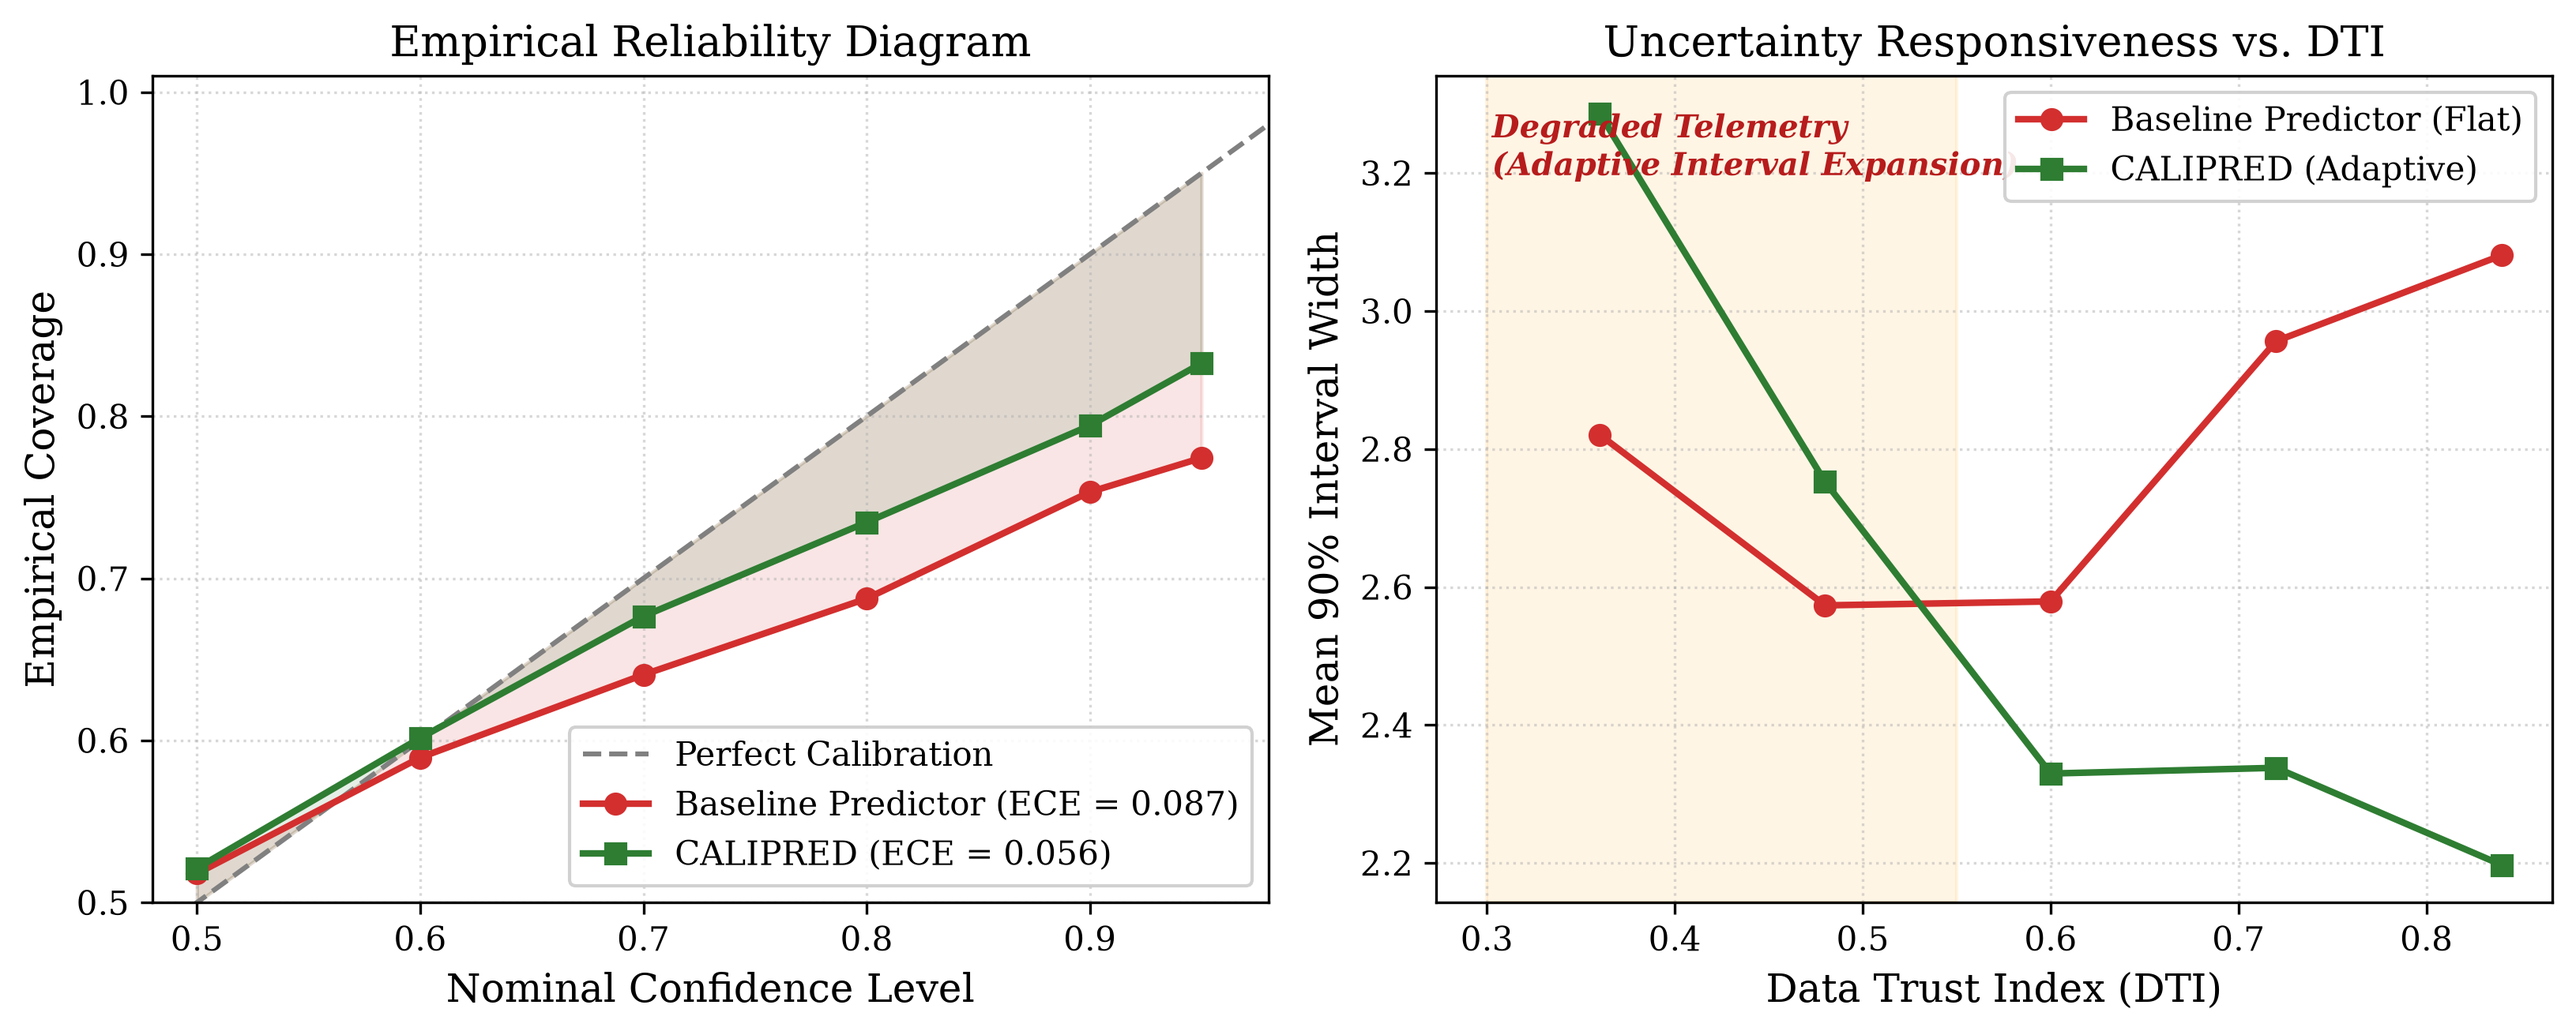
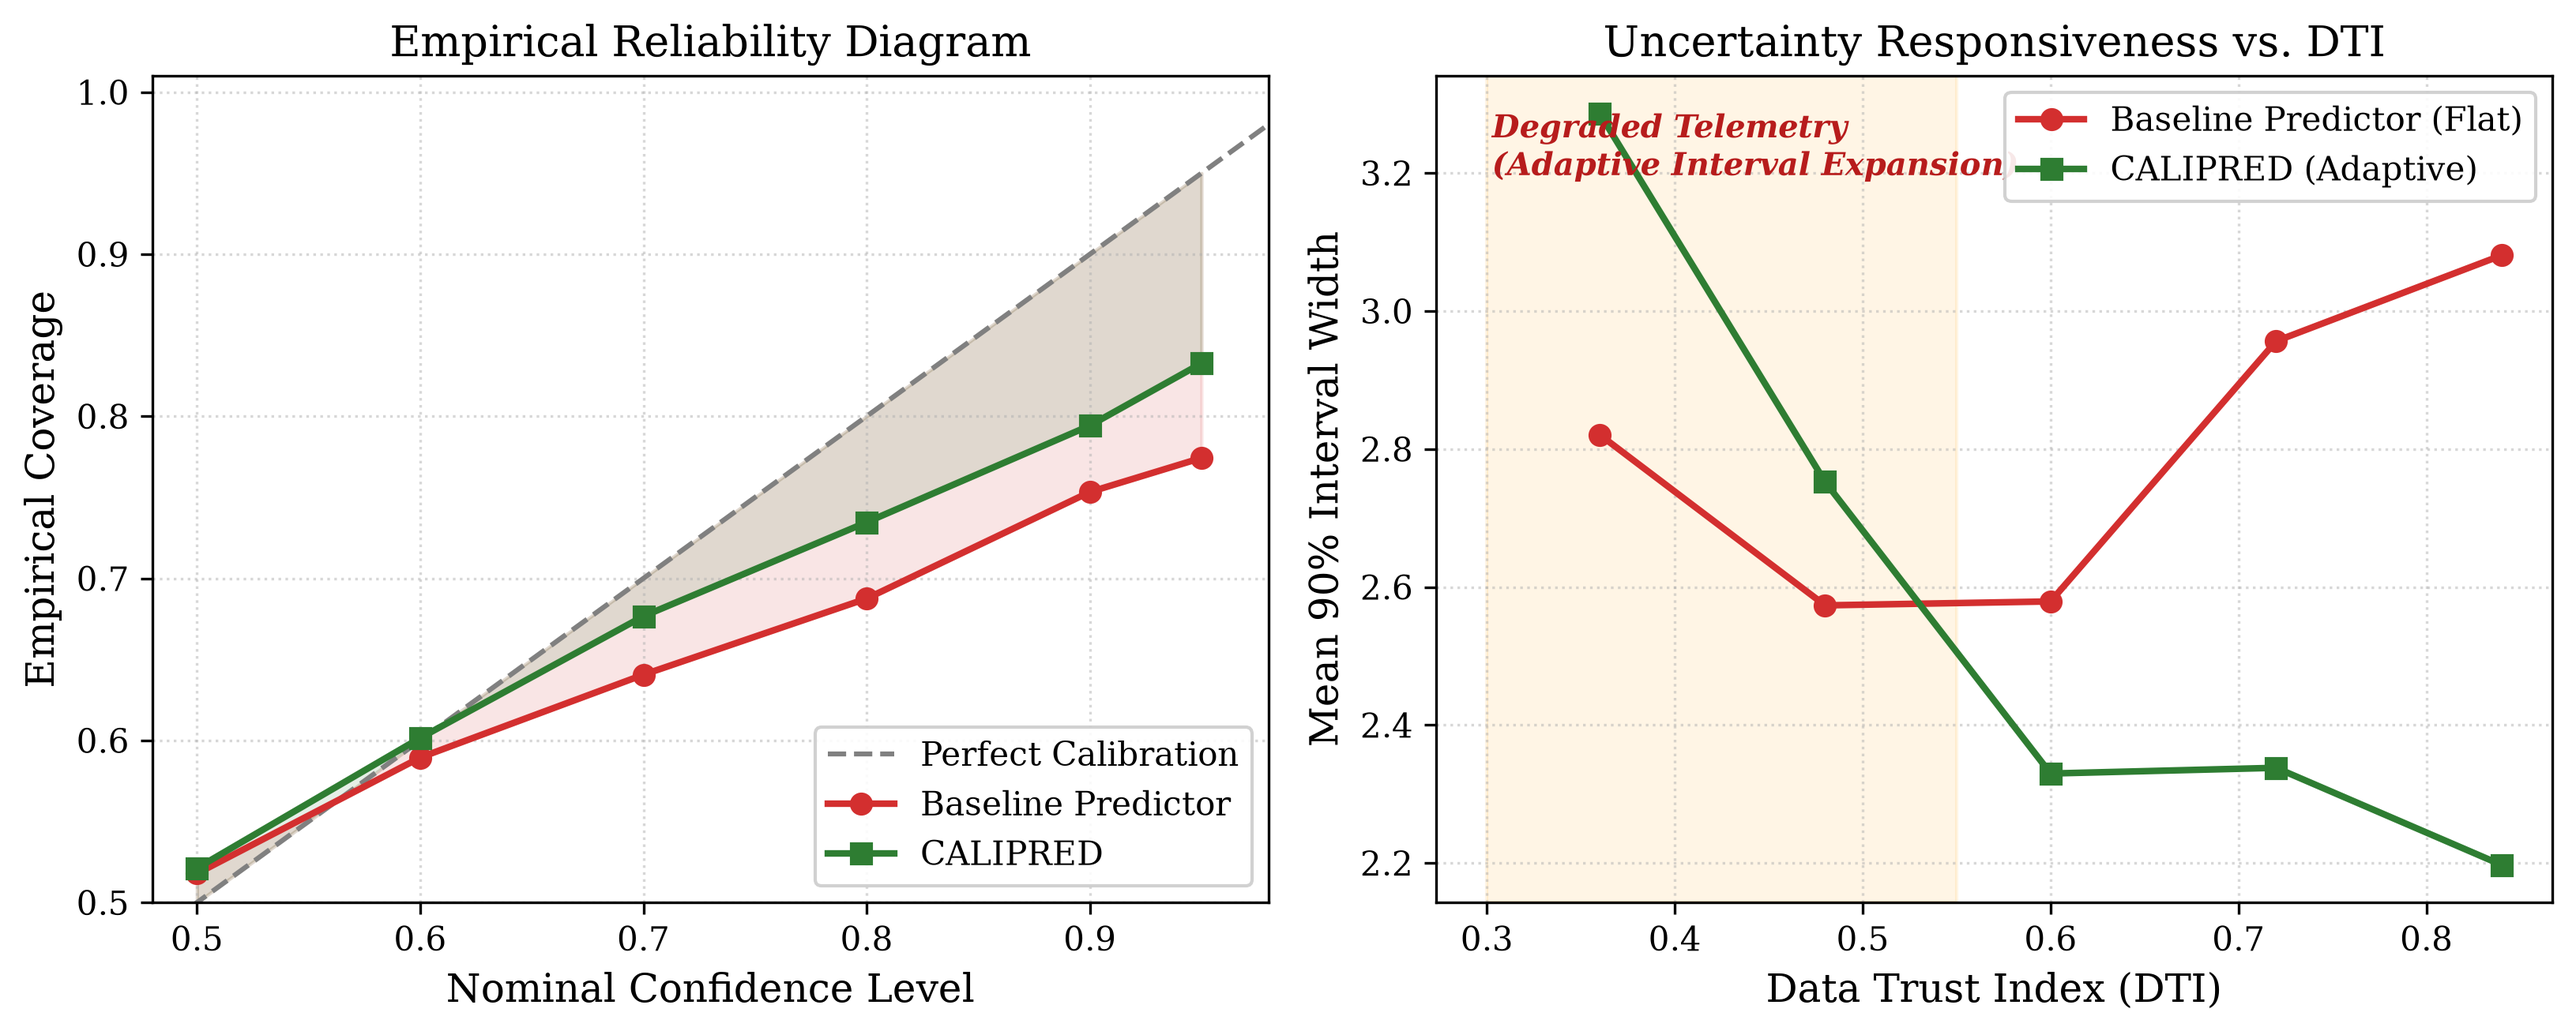
Remove ECE numbers from Fig 1 legend to avoid any Table II discrepancy

Changed region(s): [[0.2168, 0.7018, 0.4956, 0.8543]]

diff --git a/plot_clean_fig1.py b/plot_clean_fig1.py
@@ -98,7 +98,7 @@ def main():
     
     ax_rel.plot(
         base_res["nominal_levels"], base_res["empirical_coverage"],
-        marker="o", color=base_color, label=f"Baseline Predictor (ECE = {base_res['mean_ece']:.3f})"
+        marker="o", color=base_color, label="Baseline Predictor"
     )
     ax_rel.fill_between(
         base_res["nominal_levels"], base_res["nominal_levels"], base_res["empirical_coverage"],
@@ -107,7 +107,7 @@ def main():
     
     ax_rel.plot(
         cali_res["nominal_levels"], cali_res["empirical_coverage"],
-        marker="s", color=cali_color, label=f"CALIPRED (ECE = {cali_res['mean_ece']:.3f})"
+        marker="s", color=cali_color, label="CALIPRED"
     )
     ax_rel.fill_between(
         cali_res["nominal_levels"], cali_res["nominal_levels"], cali_res["empirical_coverage"],
